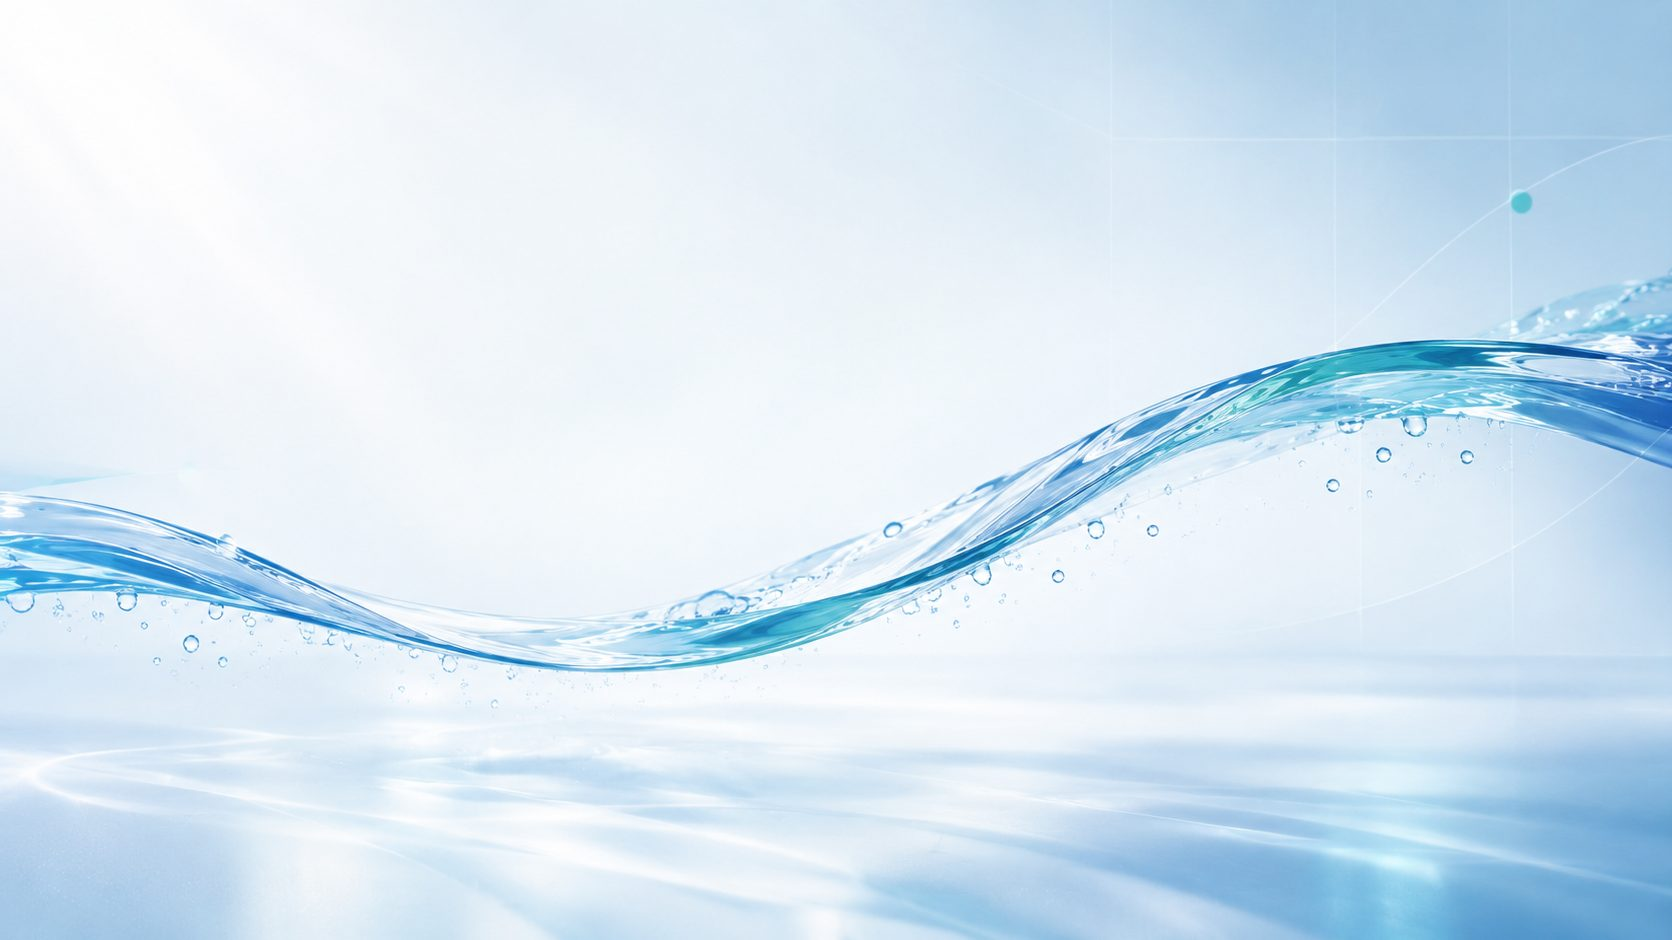
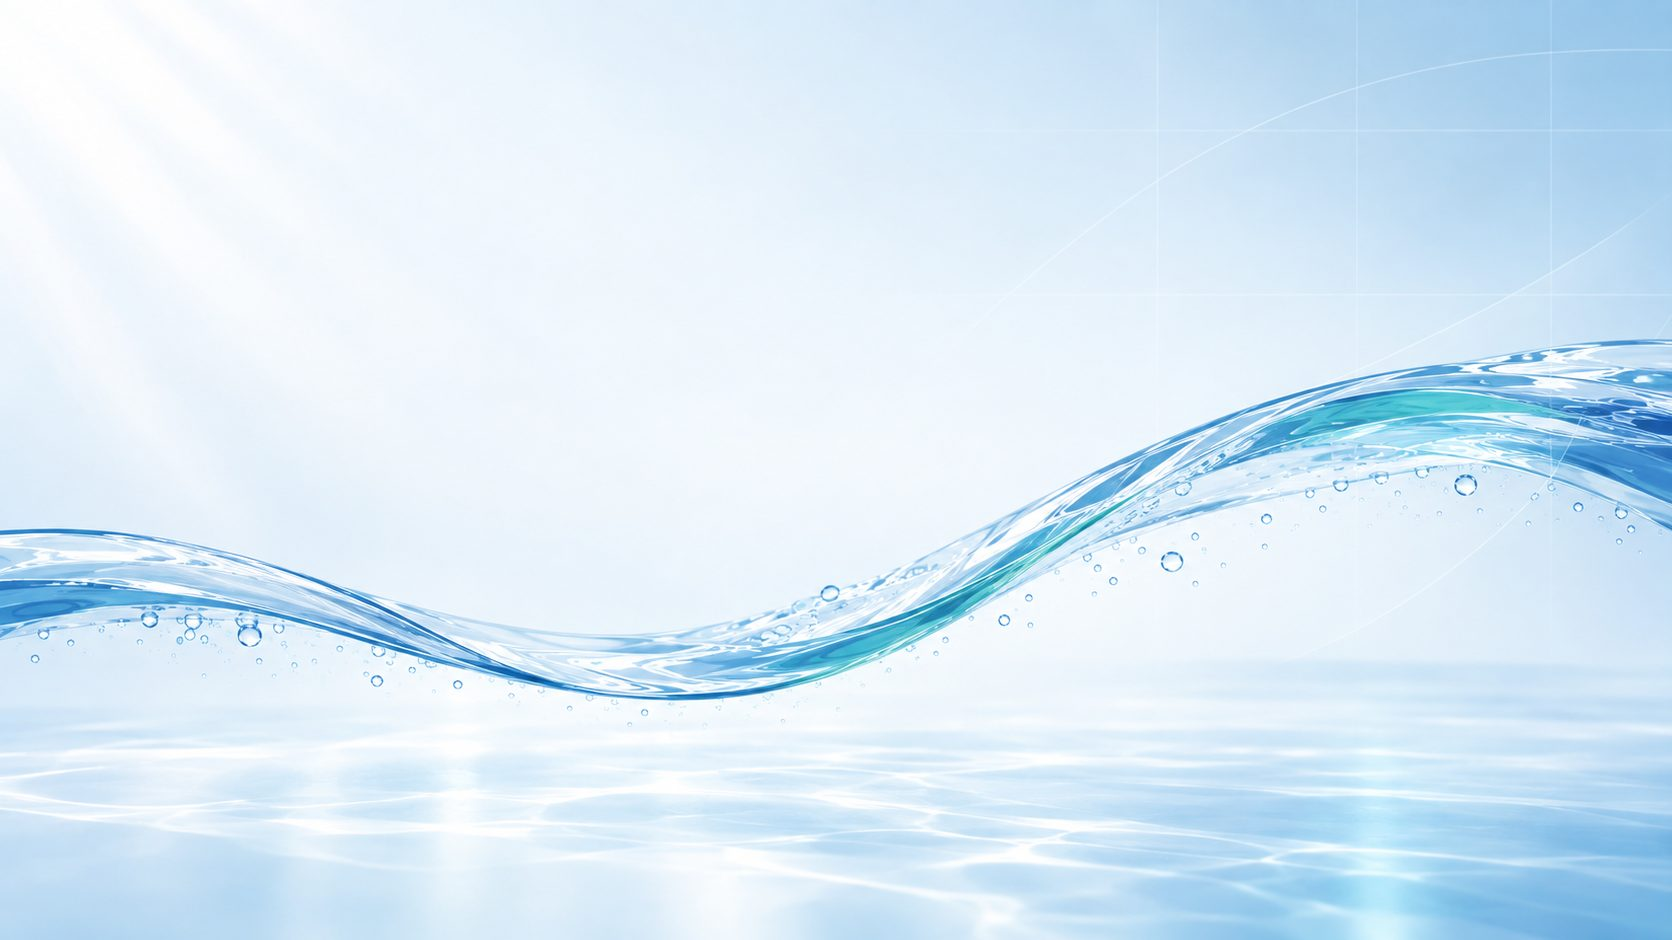
透析中心：填入院址／電話／服務時間，修手機直式頁尾
FACTS 補 addr、addr_en、tel、tel_note（照作者給的原文照抄，
地址「2段」不改寫成「二段」——這是關於真實機構的事實，格式不是我該決定的）。
英文地址獨立成 addr_en：串成一行會變成一大塊，JSON-LD 的 streetAddress
也不該中英混在一起。壓小壓灰當第二行，沒填就整行不出現。
機構事實 2/13 → 6/14。

手機直式頁尾兩個問題：
· 兩欄擠在 393px 只剩 163px 寬，中心名稱被折成「郭綜合醫院血液透／析中心」，
  第三欄還掉到左下角、右邊留一大塊空白。≤640px 改單欄。
· 右下角固定的浮動預約鈕壓在頁尾最後一行上面，蓋掉「本頁最後更新於…」。
  .fnote 加 padding-bottom:64px——**所有寬度都要**，實測 641～900px 也會蓋到，
  1280px 沒事只是因為版面夠寬、字還沒長到鈕的位置。

主視覺換成作者重放的那張（img_src → make_dialysis_img.py，1.3MB → 93KB，
og.jpg 一併重裁）。

14 個寬度重測，零重疊、零溢出、頁尾無待填標記。

diff --git a/dialysis/index.html b/dialysis/index.html
@@ -17,9 +17,9 @@
 <link rel="preconnect" href="https://fonts.googleapis.com">
 <link rel="preconnect" href="https://fonts.gstatic.com" crossorigin>
 <link rel="stylesheet" href="https://fonts.googleapis.com/css2?family=Noto+Sans+TC:wght@400;500;700&family=Noto+Serif+TC:wght@500;700&display=swap">
-<link rel="stylesheet" href="assets/site.css?v=34b25223">
+<link rel="stylesheet" href="assets/site.css?v=64562291">
 <link rel="icon" href="img/logo.png">
-<script type="application/ld+json">{"@context": "https://schema.org", "@type": "MedicalClinic", "name": "郭綜合醫院血液透析中心", "medicalSpecialty": "Nephrologic", "url": "https://kidneygod.net/dialysis/", "parentOrganization": {"@type": "Hospital", "name": "郭綜合醫院", "logo": "https://kidneygod.net/dialysis/img/KGH.png"}}</script>
+<script type="application/ld+json">{"@context": "https://schema.org", "@type": "MedicalClinic", "name": "郭綜合醫院血液透析中心", "medicalSpecialty": "Nephrologic", "url": "https://kidneygod.net/dialysis/", "parentOrganization": {"@type": "Hospital", "name": "郭綜合醫院", "logo": "https://kidneygod.net/dialysis/img/KGH.png"}, "address": {"@type": "PostalAddress", "streetAddress": "700002 台南市中西區民生路2段22號"}, "telephone": "(06)222-1111 轉 2500"}</script>
 </head>
 <body>
 <header class="hd">
@@ -79,7 +79,7 @@
 
 <section class="tint"><div class="wrap">
   <div class="shead reveal"><span class="en">Notice</span><h2>停診與代診公告</h2></div>
-  <div class="notice reveal" style="--d:0.08s"><h3>目前無停診公告</h3><p class="sd" style="margin:0 0 10px">最後確認：2026-09-05</p><ul><li>國定假日與颱風天的透析安排，會另行公告並由護理人員主動聯繫。</li><li>臨時無法到院透析，請盡早來電，我們會協助安排補洗時段：<span class="todo">待填：透析室電話</span></li></ul></div>
+  <div class="notice reveal" style="--d:0.08s"><h3>目前無停診公告</h3><p class="sd" style="margin:0 0 10px">最後確認：2026-09-05</p><ul><li>國定假日與颱風天的透析安排，會另行公告並由護理人員主動聯繫。</li><li>臨時無法到院透析，請盡早來電，我們會協助安排補洗時段：(06)222-1111 轉 2500</li></ul></div>
 </div></section>
 
 <section class="band"><img class="shot" src="img/band-process.jpg" alt=""><div class="wrap">
@@ -116,9 +116,9 @@
     <div>
       <p class="fhosp"><img src="img/KGH.png" alt="郭綜合醫院" width="326" height="182"><span>隸屬於郭綜合醫院</span></p>
       <p class="fbrand">郭綜合醫院血液透析中心</p>
-      <p style="margin:0 0 6px">地址：<span class="todo">待填：院區地址</span></p>
-      <p style="margin:0 0 6px">電話：<span class="todo">待填：透析室電話</span></p>
-      <p style="margin:0">服務時間：<span class="todo">待填：服務時間，例如 週一至週六 07:00–21:00</span></p>
+      <p class="fl">地址：700002 台南市中西區民生路2段22號<span class="fen">No. 22, Sec. 2, Minsheng Rd., West Central Dist., Tainan City 700002, Taiwan (R.O.C.)</span></p>
+      <p class="fl">電話：(06)222-1111 轉 2500</p>
+      <p class="fl" style="margin:0">服務時間：週一三五 07:00–21:00，週二四六 07:00–17:00</p>
     </div>
     <div><h4>認識我們</h4><ul>
       <li><a href="about.html">關於中心</a></li>
@@ -140,7 +140,7 @@
 </footer>
 
 <a class="float" href="visit.html#booking">預約與諮詢</a>
-<script src="assets/site.js?v=34b25223"></script>
+<script src="assets/site.js?v=64562291"></script>
 <script type="module" src="https://static.cloudflareinsights.com/beacon.min.js" data-cf-beacon='{"token": "e44b1d39221d4a5085336497dbff3ce4"}'></script>
 </body>
 </html>

diff --git a/dialysis/visit.html b/dialysis/visit.html
@@ -17,7 +17,7 @@
 <link rel="preconnect" href="https://fonts.googleapis.com">
 <link rel="preconnect" href="https://fonts.gstatic.com" crossorigin>
 <link rel="stylesheet" href="https://fonts.googleapis.com/css2?family=Noto+Sans+TC:wght@400;500;700&family=Noto+Serif+TC:wght@500;700&display=swap">
-<link rel="stylesheet" href="assets/site.css?v=34b25223">
+<link rel="stylesheet" href="assets/site.css?v=64562291">
 <link rel="icon" href="img/logo.png">
 
 </head>
@@ -37,8 +37,8 @@
 <p>不論是想先了解透析、需要安排長期時段，或是外地就醫需要臨時透析，
 都可以直接聯絡我們。</p>
 <ul>
-  <li><strong>電話</strong>：<span class="todo">待填：透析室電話</span>（<span class="todo">待填：服務時間，例如 週一至週六 07:00–21:00</span>）</li>
-  <li><strong>地址</strong>：<span class="todo">待填：院區地址</span></li>
+  <li><strong>電話</strong>：(06)222-1111 轉 2500（週一三五 07:00–21:00，週二四六 07:00–17:00）</li>
+  <li><strong>地址</strong>：700002 台南市中西區民生路2段22號</li>
   <li><strong>線上掛號</strong>：<span class="todo">待填：掛號系統網址</span></li>
   <li><strong>洗腎室服務專員 LINE</strong>：<span class="todo">待填：洗腎室服務專員的 LINE ID 或加好友網址</span></li>
 </ul>
@@ -78,9 +78,9 @@
     <div>
       <p class="fhosp"><img src="img/KGH.png" alt="郭綜合醫院" width="326" height="182"><span>隸屬於郭綜合醫院</span></p>
       <p class="fbrand">郭綜合醫院血液透析中心</p>
-      <p style="margin:0 0 6px">地址：<span class="todo">待填：院區地址</span></p>
-      <p style="margin:0 0 6px">電話：<span class="todo">待填：透析室電話</span></p>
-      <p style="margin:0">服務時間：<span class="todo">待填：服務時間，例如 週一至週六 07:00–21:00</span></p>
+      <p class="fl">地址：700002 台南市中西區民生路2段22號<span class="fen">No. 22, Sec. 2, Minsheng Rd., West Central Dist., Tainan City 700002, Taiwan (R.O.C.)</span></p>
+      <p class="fl">電話：(06)222-1111 轉 2500</p>
+      <p class="fl" style="margin:0">服務時間：週一三五 07:00–21:00，週二四六 07:00–17:00</p>
     </div>
     <div><h4>認識我們</h4><ul>
       <li><a href="about.html">關於中心</a></li>
@@ -102,7 +102,7 @@
 </footer>
 
 <a class="float" href="visit.html#booking">預約與諮詢</a>
-<script src="assets/site.js?v=34b25223"></script>
+<script src="assets/site.js?v=64562291"></script>
 <script type="module" src="https://static.cloudflareinsights.com/beacon.min.js" data-cf-beacon='{"token": "e44b1d39221d4a5085336497dbff3ce4"}'></script>
 </body>
 </html>

diff --git a/dialysis/about.html b/dialysis/about.html
@@ -17,7 +17,7 @@
 <link rel="preconnect" href="https://fonts.googleapis.com">
 <link rel="preconnect" href="https://fonts.gstatic.com" crossorigin>
 <link rel="stylesheet" href="https://fonts.googleapis.com/css2?family=Noto+Sans+TC:wght@400;500;700&family=Noto+Serif+TC:wght@500;700&display=swap">
-<link rel="stylesheet" href="assets/site.css?v=34b25223">
+<link rel="stylesheet" href="assets/site.css?v=64562291">
 <link rel="icon" href="img/logo.png">
 
 </head>
@@ -75,9 +75,9 @@
     <div>
       <p class="fhosp"><img src="img/KGH.png" alt="郭綜合醫院" width="326" height="182"><span>隸屬於郭綜合醫院</span></p>
       <p class="fbrand">郭綜合醫院血液透析中心</p>
-      <p style="margin:0 0 6px">地址：<span class="todo">待填：院區地址</span></p>
-      <p style="margin:0 0 6px">電話：<span class="todo">待填：透析室電話</span></p>
-      <p style="margin:0">服務時間：<span class="todo">待填：服務時間，例如 週一至週六 07:00–21:00</span></p>
+      <p class="fl">地址：700002 台南市中西區民生路2段22號<span class="fen">No. 22, Sec. 2, Minsheng Rd., West Central Dist., Tainan City 700002, Taiwan (R.O.C.)</span></p>
+      <p class="fl">電話：(06)222-1111 轉 2500</p>
+      <p class="fl" style="margin:0">服務時間：週一三五 07:00–21:00，週二四六 07:00–17:00</p>
     </div>
     <div><h4>認識我們</h4><ul>
       <li><a href="about.html">關於中心</a></li>
@@ -99,7 +99,7 @@
 </footer>
 
 <a class="float" href="visit.html#booking">預約與諮詢</a>
-<script src="assets/site.js?v=34b25223"></script>
+<script src="assets/site.js?v=64562291"></script>
 <script type="module" src="https://static.cloudflareinsights.com/beacon.min.js" data-cf-beacon='{"token": "e44b1d39221d4a5085336497dbff3ce4"}'></script>
 </body>
 </html>

diff --git a/dialysis/education.html b/dialysis/education.html
@@ -17,7 +17,7 @@
 <link rel="preconnect" href="https://fonts.googleapis.com">
 <link rel="preconnect" href="https://fonts.gstatic.com" crossorigin>
 <link rel="stylesheet" href="https://fonts.googleapis.com/css2?family=Noto+Sans+TC:wght@400;500;700&family=Noto+Serif+TC:wght@500;700&display=swap">
-<link rel="stylesheet" href="assets/site.css?v=34b25223">
+<link rel="stylesheet" href="assets/site.css?v=64562291">
 <link rel="icon" href="img/logo.png">
 
 </head>
@@ -39,9 +39,9 @@
     <div>
       <p class="fhosp"><img src="img/KGH.png" alt="郭綜合醫院" width="326" height="182"><span>隸屬於郭綜合醫院</span></p>
       <p class="fbrand">郭綜合醫院血液透析中心</p>
-      <p style="margin:0 0 6px">地址：<span class="todo">待填：院區地址</span></p>
-      <p style="margin:0 0 6px">電話：<span class="todo">待填：透析室電話</span></p>
-      <p style="margin:0">服務時間：<span class="todo">待填：服務時間，例如 週一至週六 07:00–21:00</span></p>
+      <p class="fl">地址：700002 台南市中西區民生路2段22號<span class="fen">No. 22, Sec. 2, Minsheng Rd., West Central Dist., Tainan City 700002, Taiwan (R.O.C.)</span></p>
+      <p class="fl">電話：(06)222-1111 轉 2500</p>
+      <p class="fl" style="margin:0">服務時間：週一三五 07:00–21:00，週二四六 07:00–17:00</p>
     </div>
     <div><h4>認識我們</h4><ul>
       <li><a href="about.html">關於中心</a></li>
@@ -63,7 +63,7 @@
 </footer>
 
 <a class="float" href="visit.html#booking">預約與諮詢</a>
-<script src="assets/site.js?v=34b25223"></script>
+<script src="assets/site.js?v=64562291"></script>
 <script type="module" src="https://static.cloudflareinsights.com/beacon.min.js" data-cf-beacon='{"token": "e44b1d39221d4a5085336497dbff3ce4"}'></script>
 </body>
 </html>

diff --git a/dialysis/services.html b/dialysis/services.html
@@ -17,7 +17,7 @@
 <link rel="preconnect" href="https://fonts.googleapis.com">
 <link rel="preconnect" href="https://fonts.gstatic.com" crossorigin>
 <link rel="stylesheet" href="https://fonts.googleapis.com/css2?family=Noto+Sans+TC:wght@400;500;700&family=Noto+Serif+TC:wght@500;700&display=swap">
-<link rel="stylesheet" href="assets/site.css?v=34b25223">
+<link rel="stylesheet" href="assets/site.css?v=64562291">
 <link rel="icon" href="img/logo.png">
 
 </head>
@@ -39,9 +39,9 @@
     <div>
       <p class="fhosp"><img src="img/KGH.png" alt="郭綜合醫院" width="326" height="182"><span>隸屬於郭綜合醫院</span></p>
       <p class="fbrand">郭綜合醫院血液透析中心</p>
-      <p style="margin:0 0 6px">地址：<span class="todo">待填：院區地址</span></p>
-      <p style="margin:0 0 6px">電話：<span class="todo">待填：透析室電話</span></p>
-      <p style="margin:0">服務時間：<span class="todo">待填：服務時間，例如 週一至週六 07:00–21:00</span></p>
+      <p class="fl">地址：700002 台南市中西區民生路2段22號<span class="fen">No. 22, Sec. 2, Minsheng Rd., West Central Dist., Tainan City 700002, Taiwan (R.O.C.)</span></p>
+      <p class="fl">電話：(06)222-1111 轉 2500</p>
+      <p class="fl" style="margin:0">服務時間：週一三五 07:00–21:00，週二四六 07:00–17:00</p>
     </div>
     <div><h4>認識我們</h4><ul>
       <li><a href="about.html">關於中心</a></li>
@@ -63,7 +63,7 @@
 </footer>
 
 <a class="float" href="visit.html#booking">預約與諮詢</a>
-<script src="assets/site.js?v=34b25223"></script>
+<script src="assets/site.js?v=64562291"></script>
 <script type="module" src="https://static.cloudflareinsights.com/beacon.min.js" data-cf-beacon='{"token": "e44b1d39221d4a5085336497dbff3ce4"}'></script>
 </body>
 </html>

diff --git a/dialysis/assets/site.css b/dialysis/assets/site.css
@@ -224,8 +224,27 @@ background:var(--mist);border:1px solid var(--line);border-radius:12px}
 .hosp img{height:46px;width:auto;flex-shrink:0}
 .hosp span{font-size:14.5px;color:var(--mut);line-height:1.7}
 @media(max-width:420px){.hosp{gap:12px;padding:13px 14px}.hosp img{height:38px}}
-.fnote{margin-top:34px;padding-top:20px;border-top:1px solid rgba(255,255,255,.14);
+.fl{margin:0 0 6px;line-height:1.75}
+/* 英文地址：給外籍病人與 Google 用的，不是給一般讀者讀的，所以壓小壓灰。
+   overflow-wrap:anywhere 是因為它是一長串沒有中文斷點的英文，
+   在窄欄裡不斷行就會撐出容器。 */
+.fen{display:block;margin-top:3px;font-size:12.5px;color:#93a8bf;
+line-height:1.65;overflow-wrap:anywhere}
+/* padding-bottom 是給右下角那顆固定的浮動預約鈕讓位的。
+   它 position:fixed，捲到底時會壓在頁尾最後一行上面——實測 641～900px
+   會蓋掉「本頁最後更新於…」的後半。這一段對所有寬度都要留，
+   不是只有手機：1280px 沒事只是因為版面夠寬，字還沒長到鈕的位置。 */
+.fnote{margin-top:34px;padding-top:20px;padding-bottom:64px;
+border-top:1px solid rgba(255,255,255,.14);
 font-size:13px;color:#93a8bf;line-height:1.9}
+/* 手機直式：兩欄擠在 393px 只剩 163px，中心名稱被折成
+   「郭綜合醫院血液透／析中心」，第三欄還會掉到左下角、右邊留一大塊空白。
+   改單欄，一路往下讀。 */
+@media(max-width:640px){
+  .fgrid{grid-template-columns:1fr;gap:26px}
+  footer.site{padding:44px 0 26px}
+  .fnote{margin-top:26px}
+}
 
 /* ---- 浮動預約鈕 ---- */
 .float{position:fixed;right:20px;bottom:20px;z-index:55;display:flex;align-items:center;

diff --git a/build_dialysis.py b/build_dialysis.py
@@ -50,9 +50,16 @@ class TODO(str):
 FACTS: dict[str, str] = {
     "center":     "郭綜合醫院血液透析中心",
     "hospital":   "郭綜合醫院",
-    "addr":       TODO("院區地址"),
-    "tel":        TODO("透析室電話"),
-    "tel_note":   TODO("服務時間，例如 週一至週六 07:00–21:00"),
+    # 地址與電話照作者給的原文照抄，不改寫格式——這是關於一間真實醫療機構
+    # 的事實，「二段」還是「2段」不是我該替它決定的事。
+    "addr":       "700002 台南市中西區民生路2段22號",
+    # 英文地址單獨一個欄位：頁尾把中英文串成一行會變成一大塊，
+    # 而且 JSON-LD 的 streetAddress 要的是單一語言，混在一起會髒。
+    # 有值才渲染成第二行，沒有就整行不出現。
+    "addr_en":    ("No. 22, Sec. 2, Minsheng Rd., West Central Dist., "
+                   "Tainan City 700002, Taiwan (R.O.C.)"),
+    "tel":        "(06)222-1111 轉 2500",
+    "tel_note":   "週一三五 07:00–21:00，週二四六 07:00–17:00",
     "shifts":     TODO("透析時段，例如 一三五／二四六，早中晚三班"),
     "beds":       TODO("透析床位數"),
     "machines":   TODO("透析機台數"),
@@ -362,8 +369,27 @@ background:var(--mist);border:1px solid var(--line);border-radius:12px}
 .hosp img{height:46px;width:auto;flex-shrink:0}
 .hosp span{font-size:14.5px;color:var(--mut);line-height:1.7}
 @media(max-width:420px){.hosp{gap:12px;padding:13px 14px}.hosp img{height:38px}}
-.fnote{margin-top:34px;padding-top:20px;border-top:1px solid rgba(255,255,255,.14);
+.fl{margin:0 0 6px;line-height:1.75}
+/* 英文地址：給外籍病人與 Google 用的，不是給一般讀者讀的，所以壓小壓灰。
+   overflow-wrap:anywhere 是因為它是一長串沒有中文斷點的英文，
+   在窄欄裡不斷行就會撐出容器。 */
+.fen{display:block;margin-top:3px;font-size:12.5px;color:#93a8bf;
+line-height:1.65;overflow-wrap:anywhere}
+/* padding-bottom 是給右下角那顆固定的浮動預約鈕讓位的。
+   它 position:fixed，捲到底時會壓在頁尾最後一行上面——實測 641～900px
+   會蓋掉「本頁最後更新於…」的後半。這一段對所有寬度都要留，
+   不是只有手機：1280px 沒事只是因為版面夠寬，字還沒長到鈕的位置。 */
+.fnote{margin-top:34px;padding-top:20px;padding-bottom:64px;
+border-top:1px solid rgba(255,255,255,.14);
 font-size:13px;color:#93a8bf;line-height:1.9}
+/* 手機直式：兩欄擠在 393px 只剩 163px，中心名稱被折成
+   「郭綜合醫院血液透／析中心」，第三欄還會掉到左下角、右邊留一大塊空白。
+   改單欄，一路往下讀。 */
+@media(max-width:640px){
+  .fgrid{grid-template-columns:1fr;gap:26px}
+  footer.site{padding:44px 0 26px}
+  .fnote{margin-top:26px}
+}
 
 /* ---- 浮動預約鈕 ---- */
 .float{position:fixed;right:20px;bottom:20px;z-index:55;display:flex;align-items:center;
@@ -568,6 +594,10 @@ def shell(path: str, title: str, desc: str, body: str,
              f'alt="{esc(FACTS["hospital"])}" width="326" height="182">'
              f'<span>隸屬於{esc(FACTS["hospital"])}</span></p>'
              if HOSP_LOGO.exists() else "")
+    # 英文地址第二行。給的是給外籍病人與 Google 用的，壓小壓灰，
+    # 沒填就整行不出現（不是空字串佔一行）。
+    addr_en = (f'<span class="fen">{fact("addr_en")}</span>'
+               if has("addr_en") else "")
     # 還有待填欄位就擋搜尋引擎。這是一間真實醫療機構的頁面，
     # 帶著「待填：透析室電話」被索引，比晚一點上線糟糕得多。
     # 全部填完之後這一行會自己消失，不必記得回來改。
@@ -615,9 +645,9 @@ def shell(path: str, title: str, desc: str, body: str,
     <div>
       {fhosp}
       <p class="fbrand">{fact('center')}</p>
-      <p style="margin:0 0 6px">地址：{fact('addr')}</p>
-      <p style="margin:0 0 6px">電話：{fact('tel')}</p>
-      <p style="margin:0">服務時間：{fact('tel_note')}</p>
+      <p class="fl">地址：{fact('addr')}{addr_en}</p>
+      <p class="fl">電話：{fact('tel')}</p>
+      <p class="fl" style="margin:0">服務時間：{fact('tel_note')}</p>
     </div>
     <div><h4>認識我們</h4><ul>
       <li><a href="about.html">關於中心</a></li>
